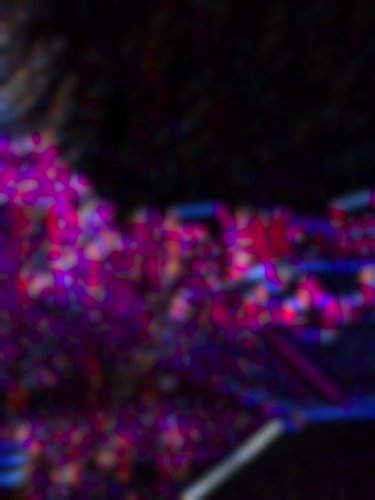
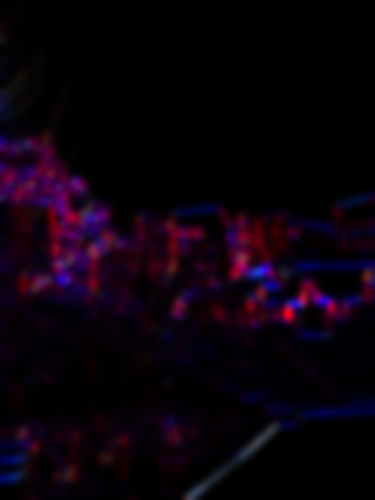
corner response

diff --git a/a7.py b/a7.py
@@ -1,6 +1,5 @@
 import numpy as np
-import scipy
-from scipy import ndimage
+from scipy import ndimage, linalg
 
 class point():
   def __init__(self, x, y):
@@ -48,13 +47,25 @@ def computeTensor(im, sigmaG=1, factorSigma=4):
 
 def cornerResponse(im, k=0.15, sigmaG=1, factorSigma=4):
   '''resp: 2D array charactering the response'''
-
+  tensor = computeTensor(im, sigmaG, factorSigma)
+  resp  = np.zeros((im.shape[0], im.shape[1]))
+  for y, x in imIter(resp):
+    M = np.array([[tensor[y, x, 0], tensor[y, x, 1]], [tensor[y, x, 1], tensor[y, x, 2]]])
+    R = linalg.det(M) - k * (np.trace(M)**2)
+    if R > 0:
+      resp[y, x] = R
   return resp
 
 def HarrisCorners(im, k=0.15, sigmaG=1, factor=4, maxiDiam=7, boundarySize=5):
   '''result: a list of points that locate the images' corners'''
-
-  return result
+  possibleCorners = cornerResponse(im, k, sigmaG, factor)
+  maxima = ndimage.filters.maximum_filter(possibleCorners, maxiDiam)
+  corners = (possibleCorners == maxima)
+  corners[possibleCorners == 0] = False
+  height, width = corners.shape
+  corners[0:boundarySize] = corners[height-1:height-boundarySize-1:-1] = False
+  corners[:,0:boundarySize] = corners[:,width-1:width-boundarySize-1:-1] = False
+  return [point(x[1], x[0]) for x in np.transpose(np.nonzero(corners))]
 
 def computeFeatures(im, cornerL, sigmaBlurDescriptor=0.5, radiusDescriptor=4):
   '''f_list: a list of feature objects'''

diff --git a/a7_test.py b/a7_test.py
@@ -7,12 +7,11 @@ def test_ComputeTensor():
   im=io.imread('pano/stata-1.png', 1.0)
   tensor=a7.computeTensor(im)
   foo=max(tensor.flatten())
-  io.imwrite(tensor/foo, 'tensor_vis.png')
+  io.imwrite(tensor/foo, 'tensor_vis.png', 1.0)
 
 def test_cornerResponse():
   im=io.imread('pano/stata-1.png', 1.0)
   resp=a7.cornerResponse(im)
-
   foo=max(resp.flatten())
   io.imwrite(_magic123(resp/foo),'resp.png', 1.0)
 
@@ -166,9 +165,9 @@ def _magic123(im):
 
 #===Tests=====
 
-test_ComputeTensor()
+# test_ComputeTensor()
 # test_cornerResponse()
-# test_HarrisCorners()
+test_HarrisCorners()
 # test_computeFeatures()
 # test_findCorrespondence()
 # test_RANSAC()
